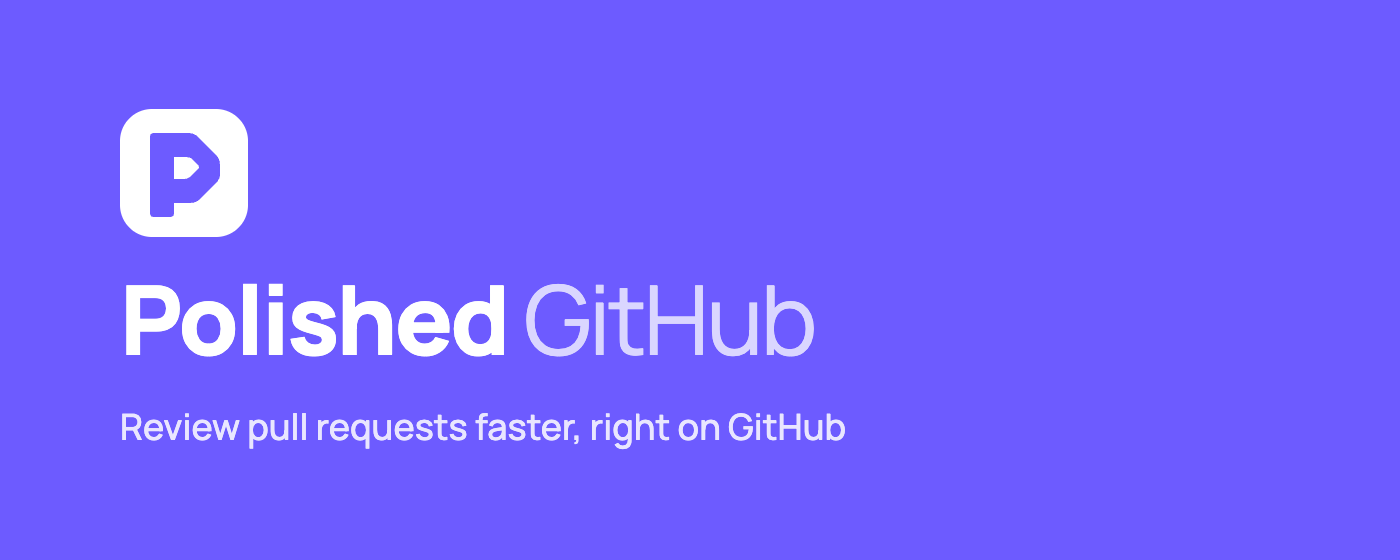
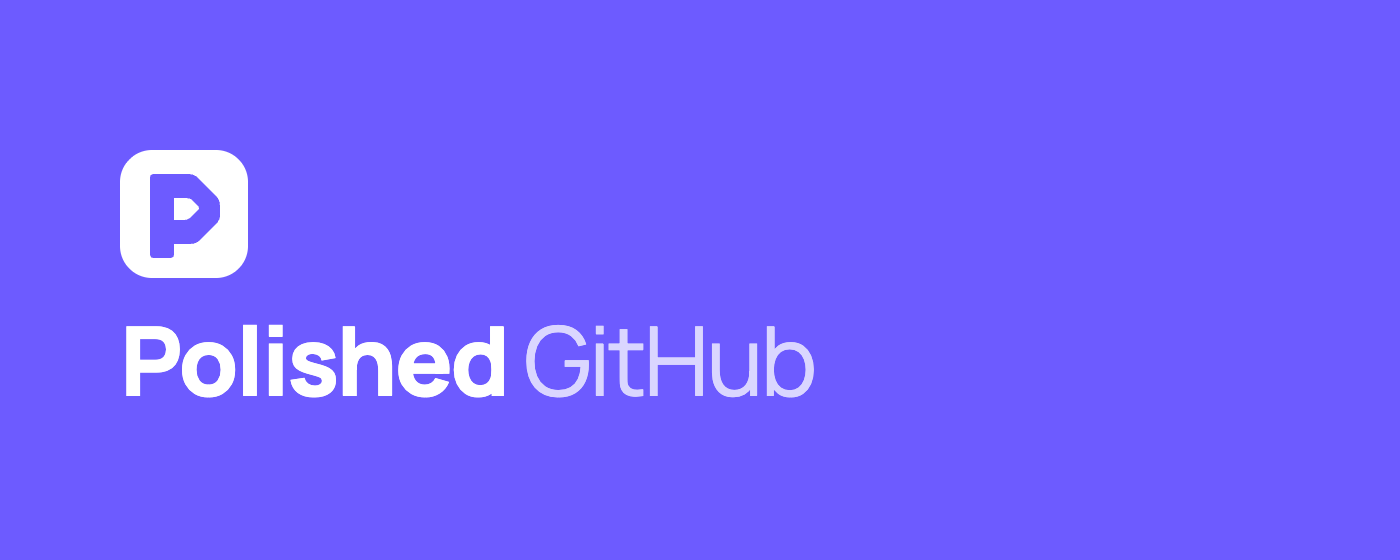
docs(store): align the listing with the Chrome Web Store guidelines

Changed region(s): [[0.0614, 0.1821, 0.6143, 0.8196]]

diff --git a/docs/store/assets/promo.html b/docs/store/assets/promo.html
@@ -4,7 +4,7 @@
 	<title>Polished GitHub promo tiles</title>
 	<link rel="stylesheet" href="https://fonts.googleapis.com/css2?family=Manrope:wght@400;500;800&display=swap" />
 	<style>
-		/* Source of the Chrome Web Store promo tiles: render #small at 440 × 280 and #marquee at 1400 × 560. */
+		/* Source of the Chrome Web Store promo tiles: render #small at 440 × 280 and #marquee at 1400 × 560. The store asks for brand over text, so only the logo and the name. */
 		body {
 			margin: 0;
 			font-family: 'Manrope', system-ui, sans-serif;
@@ -30,11 +30,6 @@
 			font-weight: 400;
 			opacity: 0.75;
 		}
-		.tagline {
-			margin: 0;
-			font-weight: 500;
-			opacity: 0.85;
-		}
 		#small {
 			width: 440px;
 			height: 280px;
@@ -48,9 +43,6 @@
 		#small .name {
 			font-size: 38px;
 		}
-		#small .tagline {
-			font-size: 18px;
-		}
 		#marquee {
 			width: 1400px;
 			height: 560px;
@@ -63,9 +55,6 @@
 		}
 		#marquee .name {
 			font-size: 96px;
-		}
-		#marquee .tagline {
-			font-size: 36px;
 		}
 	</style>
 	<svg width="0" height="0" style="position: absolute" aria-hidden="true">
@@ -83,12 +72,10 @@
 	<div class="tile" id="small">
 		<svg class="mark" aria-hidden="true"><use href="#mark" /></svg>
 		<p class="name">Polished <span>GitHub</span></p>
-		<p class="tagline">Review pull requests faster</p>
 	</div>
 
 	<div class="tile" id="marquee">
 		<svg class="mark" aria-hidden="true"><use href="#mark" /></svg>
 		<p class="name">Polished <span>GitHub</span></p>
-		<p class="tagline">Review pull requests faster, right on GitHub</p>
 	</div>
 </html>

diff --git a/docs/store/listing.md b/docs/store/listing.md
@@ -49,18 +49,18 @@ Source code and issues: https://github.com/vmaerten/polished-github
 | Host permission `https://api.github.com/*` | Reads review status, diff stats and pending review counts from the GitHub API with the user's own token.                  |
 | Remote code                                | No. Everything ships in the package.                                                                                      |
 
-**Data usage.** The token is sent to api.github.com to authenticate the user's own requests, so declare _Authentication information_, then certify that the data is not sold, not used for anything but the single purpose, and not used for creditworthiness or lending. Nothing else is collected. Check the wording of the form at submission time, it changes.
+**Data usage.** Declare _Authentication information_: the store counts handling a login or token as handling user data, even when it only goes to a third-party API. The API requests also name the repository and pull requests of the page being viewed, which the store's definition of _Web browsing activity_ covers, so declare it too. Then certify that the data is not sold, not used for anything but the single purpose, and not used for creditworthiness or lending. Check the wording of the form at submission time, it changes.
 
 **Privacy policy.** Required once user data is declared: https://polished-github.vmaerten.fr/privacy/, rendered from [privacy-policy.md](privacy-policy.md).
 
 **Assets.**
 
-| Asset              | Size               | Status                                                                                      |
-| ------------------ | ------------------ | ------------------------------------------------------------------------------------------- |
-| Icon               | 128 × 128          | `source/icons/icon-128.png`                                                                 |
-| Screenshots        | 1280 × 800, 1 to 5 | `assets/1-pr-list.png` to `assets/5-options.png`, captured on github.com with the extension |
-| Small promo tile   | 440 × 280          | `assets/promo-small-440x280.png`, from `assets/promo.html`                                  |
-| Marquee promo tile | 1400 × 560         | `assets/promo-marquee-1400x560.png`, optional                                               |
+| Asset              | Size               | Status                                                                                         |
+| ------------------ | ------------------ | ---------------------------------------------------------------------------------------------- |
+| Icon               | 128 × 128          | `source/icons/icon-128.png`: a 96 px icon in 16 px of transparent padding                      |
+| Screenshots        | 1280 × 800, 1 to 5 | `assets/1-pr-list.png` to `assets/5-options.png`, captured on github.com with the extension    |
+| Small promo tile   | 440 × 280          | `assets/promo-small-440x280.png`, from `assets/promo.html`; optional, but listed lower without |
+| Marquee promo tile | 1400 × 560         | `assets/promo-marquee-1400x560.png`, optional                                                  |
 
 ## Firefox Add-ons (AMO)
 
